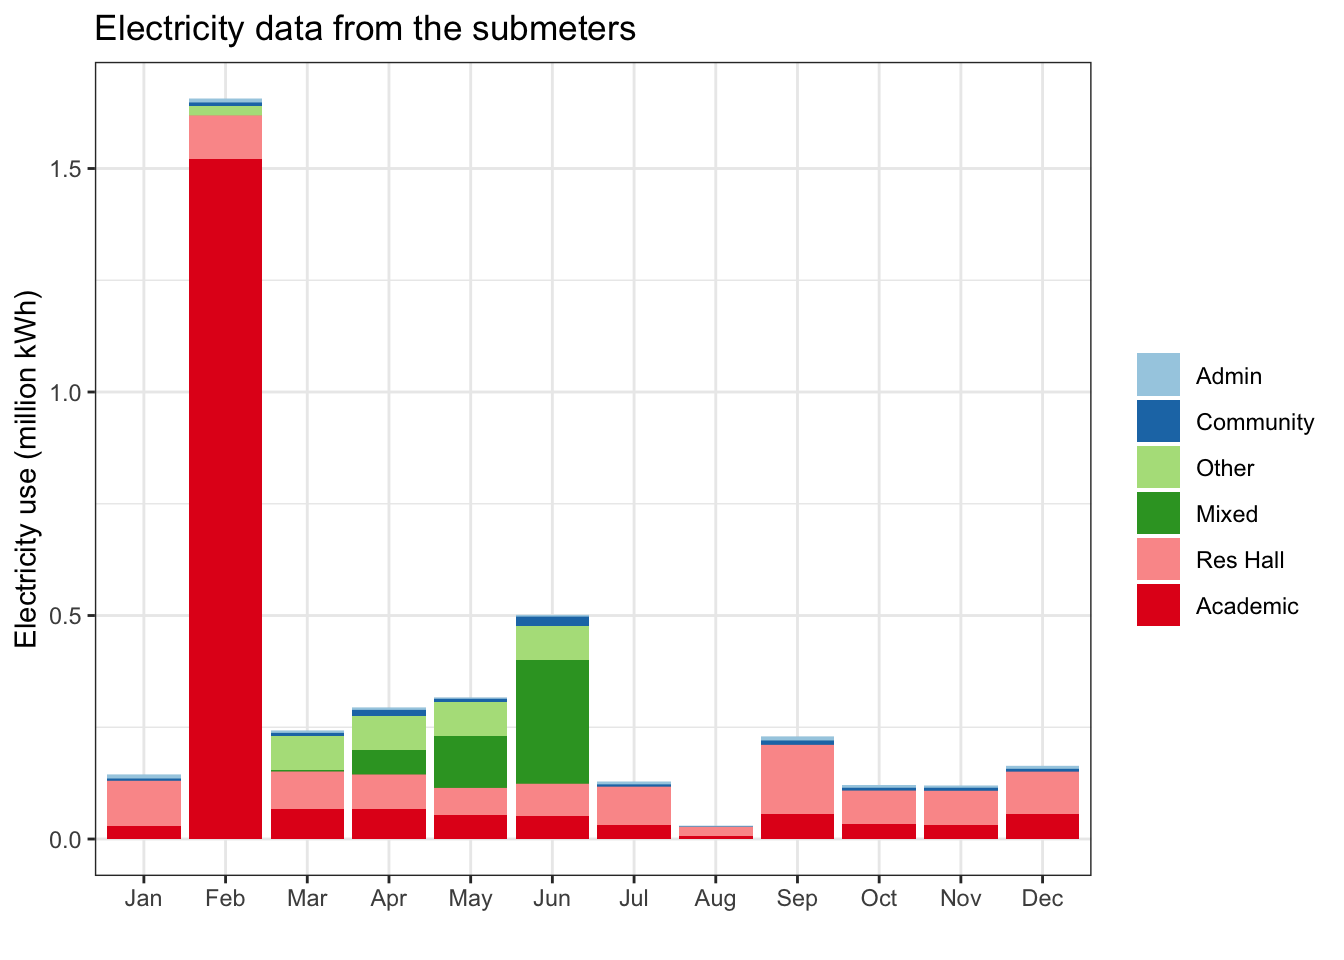
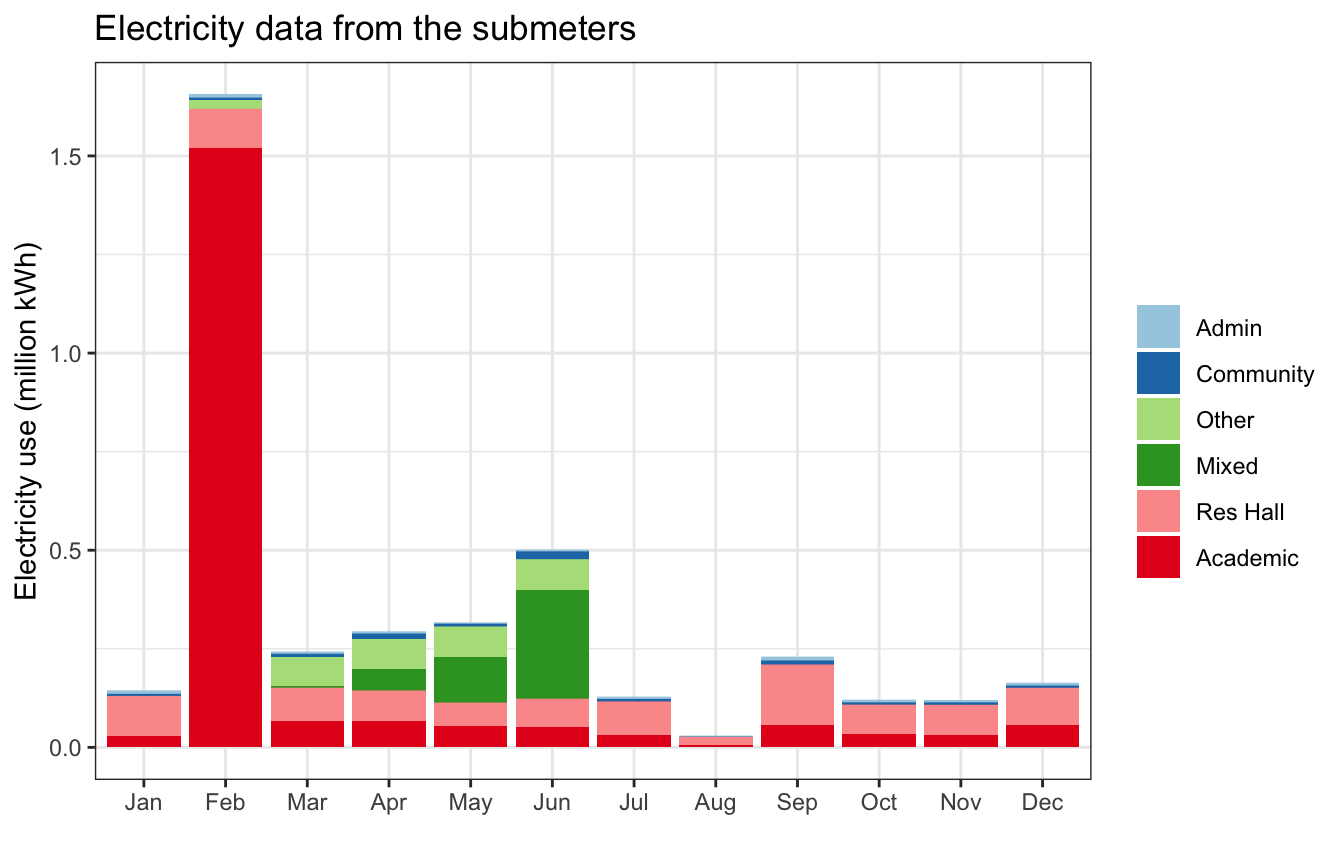
update summary code

diff --git a/docs/data_wrangling_final.html b/docs/data_wrangling_final.html
@@ -391,7 +391,7 @@ aria-hidden="true"></span> </a>
 <div class="tab-content">
 <div id="summary" class="tab-pane fade in active">
 <p>
-<strong>Last updated:</strong> 2026-02-26
+<strong>Last updated:</strong> 2026-02-27
 </p>
 <p>
 <strong>Checks:</strong> <span
@@ -525,15 +525,15 @@ project makes it easier to run your code on other machines.</p>
 <div class="panel panel-default">
 <div class="panel-heading">
 <p class="panel-title">
-<a data-toggle="collapse" data-parent="#workflowr-checks" href="#strongRepositoryversionstrongahrefhttpsgithubcommaggiedouglasdickinsonpowertree08cd7e1782debf133360a08f3907782419c7e313targetblank08cd7e1a">
+<a data-toggle="collapse" data-parent="#workflowr-checks" href="#strongRepositoryversionstrongahrefhttpsgithubcommaggiedouglasdickinsonpowertreee752845776846b84cb50739a497b72445ec86207targetblanke752845a">
 <span class="glyphicon glyphicon-ok text-success"
 aria-hidden="true"></span> <strong>Repository version:</strong>
-<a href="https://github.com/maggiedouglas/dickinson_power/tree/08cd7e1782debf133360a08f3907782419c7e313" target="_blank">08cd7e1</a>
+<a href="https://github.com/maggiedouglas/dickinson_power/tree/e752845776846b84cb50739a497b72445ec86207" target="_blank">e752845</a>
 </a>
 </p>
 </div>
 <div
[2 lines of base64/hex data omitted]
 class="panel-collapse collapse">
 <div class="panel-body">
 <p>
@@ -543,7 +543,7 @@ reproducibility.
 </p>
 <p>
 The results in this page were generated with repository version
-<a href="https://github.com/maggiedouglas/dickinson_power/tree/08cd7e1782debf133360a08f3907782419c7e313" target="_blank">08cd7e1</a>.
+<a href="https://github.com/maggiedouglas/dickinson_power/tree/e752845776846b84cb50739a497b72445ec86207" target="_blank">e752845</a>.
 See the <em>Past versions</em> tab to see a history of the changes made
 to the R Markdown and HTML files.
 </p>
@@ -577,18 +577,11 @@ Ignored files:
     Ignored:    output/kwh_main_annual.csv
     Ignored:    output/kwh_main_daily.csv
 
-Untracked files:
-    Untracked:  keys/occupancy_key.csv
-    Untracked:  keys/~$fy25_building_list_updated.xlsx
-
 Unstaged changes:
     Modified:   analysis/data_wrangling_final.Rmd
-    Modified:   analysis/main_meter_processing.Rmd
-    Modified:   keys/fy25_building_list_updated.csv
-    Modified:   keys/housing_counts.csv
-    Modified:   keys/meter_building_key.csv
-    Modified:   keys/submeter_building_key.csv
-    Modified:   keys/submeter_building_key.xlsx
+
+Staged changes:
+    Deleted:    keys/~$fy25_building_list_updated.xlsx
 
 </code></pre>
 <p>
@@ -634,6 +627,40 @@ Message
 </tr>
 </thead>
 <tbody>
+<tr>
+<td>
+Rmd
+</td>
+<td>
+<a href="https://github.com/maggiedouglas/dickinson_power/blob/e752845776846b84cb50739a497b72445ec86207/analysis/data_wrangling_final.Rmd" target="_blank">e752845</a>
+</td>
+<td>
+maggiedouglas
+</td>
+<td>
+2026-02-26
+</td>
+<td>
+adjust data processing + building summary
+</td>
+</tr>
+<tr>
+<td>
+html
+</td>
+<td>
+<a href="https://rawcdn.githack.com/maggiedouglas/dickinson_power/e752845776846b84cb50739a497b72445ec86207/docs/data_wrangling_final.html" target="_blank">e752845</a>
+</td>
+<td>
+maggiedouglas
+</td>
+<td>
+2026-02-26
+</td>
+<td>
+adjust data processing + building summary
+</td>
+</tr>
 <tr>
 <td>
 Rmd
@@ -1283,7 +1310,7 @@ daily_full &lt;- rbind(daily_individual, daily_agg, daily_sub)</code></pre>
                               levels = c(&quot;Weis Meter&quot;, &quot;Main Meter&quot;,
                                         &quot;Submeter&quot;, &quot;Individual&quot;))
 
-pal &lt;- c(&quot;grey&quot;,&quot;grey&quot;,&quot;darkorchid1&quot;,&quot;darkorchid4&quot;)
+pal &lt;- c(&quot;grey&quot;,&quot;grey&quot;,&quot;#CAB2D6&quot;,&quot;#6A3D9A&quot;)
 
 buildings_graph &lt;- buildings_sum %&gt;%
   filter(!is.na(meter) &amp; !type_new %in% c(&quot;Res Hall - U&quot;,&quot;Non-building&quot;,&quot;Production&quot;,&quot;Mixed&quot;))
@@ -1318,6 +1345,17 @@ Date
 </tr>
 </thead>
 <tbody>
+<tr>
+<td>
+<a href="https://github.com/maggiedouglas/dickinson_power/blob/e752845776846b84cb50739a497b72445ec86207/docs/figure/data_wrangling_final.Rmd/graph meter-1.png" target="_blank">e752845</a>
+</td>
+<td>
+maggiedouglas
+</td>
+<td>
+2026-02-26
+</td>
+</tr>
 <tr>
 <td>
 <a href="https://github.com/maggiedouglas/dickinson_power/blob/08cd7e1782debf133360a08f3907782419c7e313/docs/figure/data_wrangling_final.Rmd/graph meter-1.png" target="_blank">08cd7e1</a>
@@ -1385,6 +1423,43 @@ maggiedouglas
   labs(x = &quot;&quot;, y = &quot;Number of Buildings&quot;, fill = &quot;Meter status&quot;) +
     theme(axis.text.x = element_text(angle = 45, vjust = 1, hjust = 1))</code></pre>
 <p><img src="figure/data_wrangling_final.Rmd/graph%20meter-2.png" width="672" style="display: block; margin: auto;" /></p>
+<p>
+<button type="button" class="btn btn-default btn-xs btn-workflowr btn-workflowr-fig" data-toggle="collapse" data-target="#fig-no-spaces-graph-meter-2">
+Past versions of "graph meter-2.png"
+</button>
+</p>
+<div id="fig-no-spaces-graph-meter-2" class="collapse">
+<div class="table-responsive">
+<table class="table table-condensed table-hover">
+<thead>
+<tr>
+<th>
+Version
+</th>
+<th>
+Author
+</th>
+<th>
+Date
+</th>
+</tr>
+</thead>
+<tbody>
+<tr>
+<td>
+<a href="https://github.com/maggiedouglas/dickinson_power/blob/e752845776846b84cb50739a497b72445ec86207/docs/figure/data_wrangling_final.Rmd/graph meter-2.png" target="_blank">e752845</a>
+</td>
+<td>
+maggiedouglas
+</td>
+<td>
+2026-02-26
+</td>
+</tr>
+</tbody>
+</table>
+</div>
+</div>
 <pre class="r"><code>daily_graph &lt;- daily_full %&gt;%
   mutate(date = as_date(date),
          month = month(date, label = TRUE),
@@ -1393,7 +1468,8 @@ maggiedouglas
                        &#39;Res Hall - U&#39; = &#39;Res Hall&#39;,
                        &#39;Res Hall - S&#39; = &#39;Res Hall&#39;,
                        &#39;Res Hall - M&#39; = &#39;Res Hall&#39;,
-                       &#39;Res Hall - L&#39; = &#39;Res Hall&#39;)) 
+                       &#39;Res Hall - L&#39; = &#39;Res Hall&#39;)) %&gt;%
+  filter(!is.na(month))
 
 ggplot(filter(daily_graph, meter != &quot;Submeter&quot;),
        aes(x = month, y = kwh/10^6, fill = reorder(type_brief, kwh, FUN = sum))) +
@@ -1427,6 +1503,17 @@ Date
 <tbody>
 <tr>
 <td>
+<a href="https://github.com/maggiedouglas/dickinson_power/blob/e752845776846b84cb50739a497b72445ec86207/docs/figure/data_wrangling_final.Rmd/stacked bar-1.png" target="_blank">e752845</a>
+</td>
+<td>
+maggiedouglas
+</td>
+<td>
+2026-02-26
+</td>
+</tr>
+<tr>
+<td>
 <a href="https://github.com/maggiedouglas/dickinson_power/blob/08cd7e1782debf133360a08f3907782419c7e313/docs/figure/data_wrangling_final.Rmd/stacked bar-1.png" target="_blank">08cd7e1</a>
 </td>
 <td>
@@ -1448,6 +1535,43 @@ maggiedouglas
   labs(x = &quot;&quot;, y = &quot;Electricity use (million kWh)&quot;, fill = &quot;&quot;,
        title = &quot;Electricity data from the submeters&quot;)</code></pre>
 <p><img src="figure/data_wrangling_final.Rmd/stacked%20bar-2.png" width="672" style="display: block; margin: auto;" /></p>
+<p>
+<button type="button" class="btn btn-default btn-xs btn-workflowr btn-workflowr-fig" data-toggle="collapse" data-target="#fig-no-spaces-stacked-bar-2">
+Past versions of "stacked bar-2.png"
+</button>
+</p>
+<div id="fig-no-spaces-stacked-bar-2" class="collapse">
+<div class="table-responsive">
+<table class="table table-condensed table-hover">
+<thead>
+<tr>
+<th>
+Version
+</th>
+<th>
+Author
+</th>
+<th>
+Date
+</th>
+</tr>
+</thead>
+<tbody>
+<tr>
+<td>
+<a href="https://github.com/maggiedouglas/dickinson_power/blob/e752845776846b84cb50739a497b72445ec86207/docs/figure/data_wrangling_final.Rmd/stacked bar-2.png" target="_blank">e752845</a>
+</td>
+<td>
+maggiedouglas
+</td>
+<td>
+2026-02-26
+</td>
+</tr>
+</tbody>
+</table>
+</div>
+</div>
 <pre class="r"><code>ggplot(daily_graph, aes(x = month, y = kwh/10^6, fill = reorder(type, kwh, FUN = &#39;sum&#39;))) +
   geom_col(position = &quot;stack&quot;) +
   facet_wrap(. ~ type, scales = &quot;free&quot;) +
@@ -1481,6 +1605,17 @@ Date
 <tbody>
 <tr>
 <td>
+<a href="https://github.com/maggiedouglas/dickinson_power/blob/e752845776846b84cb50739a497b72445ec86207/docs/figure/data_wrangling_final.Rmd/stacked bar facet axis variable-1.png" target="_blank">e752845</a>
+</td>
+<td>
+maggiedouglas
+</td>
+<td>
+2026-02-26
+</td>
+</tr>
+<tr>
+<td>
 <a href="https://github.com/maggiedouglas/dickinson_power/blob/08cd7e1782debf133360a08f3907782419c7e313/docs/figure/data_wrangling_final.Rmd/stacked bar facet axis variable-1.png" target="_blank">08cd7e1</a>
 </td>
 <td>
@@ -1495,6 +1630,53 @@ maggiedouglas
 </div>
 </div>
 </div>
+</div>
+<div id="summary-statistics" class="section level2">
+<h2>Summary statistics</h2>
+<pre class="r"><code>summary(joined_full)</code></pre>
+<pre><code>     type              meter               NAME             days_perc     
+ Length:104         Length:104         Length:104         Min.   : 36.71  
+ Class :character   Class :character   Class :character   1st Qu.: 95.34  
+ Mode  :character   Mode  :character   Mode  :character   Median :100.00  
+                                                          Mean   : 95.72  
+                                                          3rd Qu.:100.00  
+                                                          Max.   :100.00  
+                                                                          
+      kwh                sqft            kwh_sqft         occupants      
+ Min.   :-4274284   Min.   :    500   Min.   : 0.1624   Min.   :  1.000  
+ 1st Qu.:    8249   1st Qu.:   1925   1st Qu.: 3.5399   1st Qu.:  4.375  
+ Median :   20783   Median :   5912   Median : 5.1385   Median :  6.000  
+ Mean   :  162525   Mean   :  30890   Mean   : 5.7640   Mean   : 28.057  
+ 3rd Qu.:   88355   3rd Qu.:  24421   3rd Qu.: 6.5238   3rd Qu.: 33.812  
+ Max.   :11648808   Max.   :1119435   Max.   :23.4772   Max.   :159.250  
+                    NA&#39;s   :14        NA&#39;s   :14        NA&#39;s   :56       
+   kwh_person         dollars            ghg_kgCO2       
+ Min.   :  797.1   Min.   :-347862.9   Min.   :-1285808  
+ 1st Qu.: 1302.1   1st Qu.:    671.4   1st Qu.:    2482  
+ Median : 1647.3   Median :   1691.4   Median :    6252  
+ Mean   : 2706.7   Mean   :  13227.1   Mean   :   48891  
+ 3rd Qu.: 2269.2   3rd Qu.:   7190.8   3rd Qu.:   26579  
+ Max.   :19990.2   Max.   : 948039.1   Max.   : 3504242  
+ NA&#39;s   :56                                              </code></pre>
+<pre class="r"><code>## Stats for campus buildings
+stats &lt;- filter(joined_full, meter != &quot;Submeter&quot; &amp; type != &quot;Production&quot;)
+ # million square feet
+(sum(joined_agg$sqft, na.rm=T) + sum(joined_individual$sqft, na.rm=T))/10^6</code></pre>
+<pre><code>[1] 1.946878</code></pre>
+<pre class="r"><code>sum(stats$kwh)/10^6 # million kwh</code></pre>
+<pre><code>[1] 17.23632</code></pre>
+<pre class="r"><code>sum(stats$dollars)/10^6 # million $</code></pre>
+<pre><code>[1] 1.402779</code></pre>
+<pre class="r"><code>sum(stats$ghg_kgCO2)/1000 # MT CO2e</code></pre>
+<pre><code>[1] 5185.1</code></pre>
+<pre class="r"><code>## Stats for solar
+solar &lt;- filter(joined_full, type == &quot;Production&quot;)
+sum(solar$kwh)/10^6 # million kwh</code></pre>
+<pre><code>[1] -4.274285</code></pre>
+<pre class="r"><code>sum(solar$dollars)/10^6 # million $</code></pre>
+<pre><code>[1] -0.3478629</code></pre>
+<pre class="r"><code>sum(solar$ghg_kgCO2)/1000 # MT CO2e</code></pre>
+<pre><code>[1] -1285.808</code></pre>
 <div id="electricity-intensity-by-type" class="section level3">
 <h3>Electricity intensity by type</h3>
 <pre class="r"><code>to_exclude &lt;- filter(joined_full, days_perc &lt; 90)
@@ -1502,6 +1684,9 @@ maggiedouglas
 intensity &lt;- joined_full %&gt;%
   filter(!(type %in% c(&quot;Res Hall - U&quot;,&quot;Production&quot;, &quot;Non-building&quot;)) 
               &amp; !(NAME %in% to_exclude$NAME))
+
+# median and IQR come from EIA (2022) table, annual kWh per square foot for Colleges/Universities
+# https://www.eia.gov/consumption/commercial/data/2018/ce/pdf/c22.pdf
 
 ggplot(intensity,
        aes(x = reorder(type, kwh_sqft, FUN = &quot;median&quot;),
@@ -1513,9 +1698,45 @@ ggplot(intensity,
   theme_bw() +
   theme(legend.position = &quot;none&quot;) +
   labs(x = &quot;&quot;, y = &quot;kWh per sqft per year&quot;, 
-       title = &quot;Electricity Intensity by Building Type&quot;,
-       caption = &quot;Includes individual, submeter, and aggregate meter data. Buildings with &lt; 90% of days of electricity data were excluded&quot;)</code></pre>
-<p><img src="figure/data_wrangling_final.Rmd/intensity-1.png" width="672" style="display: block; margin: auto;" /></p>
+       title = &quot;Electricity Intensity by Building Type&quot;)</code></pre>
+<p><img src="figure/data_wrangling_final.Rmd/intensity-1.png" width="432" style="display: block; margin: auto;" /></p>
+<p>
+<button type="button" class="btn btn-default btn-xs btn-workflowr btn-workflowr-fig" data-toggle="collapse" data-target="#fig-intensity-1">
+Past versions of intensity-1.png
+</button>
+</p>
+<div id="fig-intensity-1" class="collapse">
+<div class="table-responsive">
+<table class="table table-condensed table-hover">
+<thead>
+<tr>
+<th>
+Version
+</th>
+<th>
+Author
+</th>
+<th>
+Date
+</th>
+</tr>
+</thead>
+<tbody>
+<tr>
+<td>
+<a href="https://github.com/maggiedouglas/dickinson_power/blob/e752845776846b84cb50739a497b72445ec86207/docs/figure/data_wrangling_final.Rmd/intensity-1.png" target="_blank">e752845</a>
+</td>
+<td>
+maggiedouglas
+</td>
+<td>
+2026-02-26
+</td>
+</tr>
+</tbody>
+</table>
+</div>
+</div>
 </div>
 </div>
 <div id="export-for-downstream-analyses" class="section level2">
